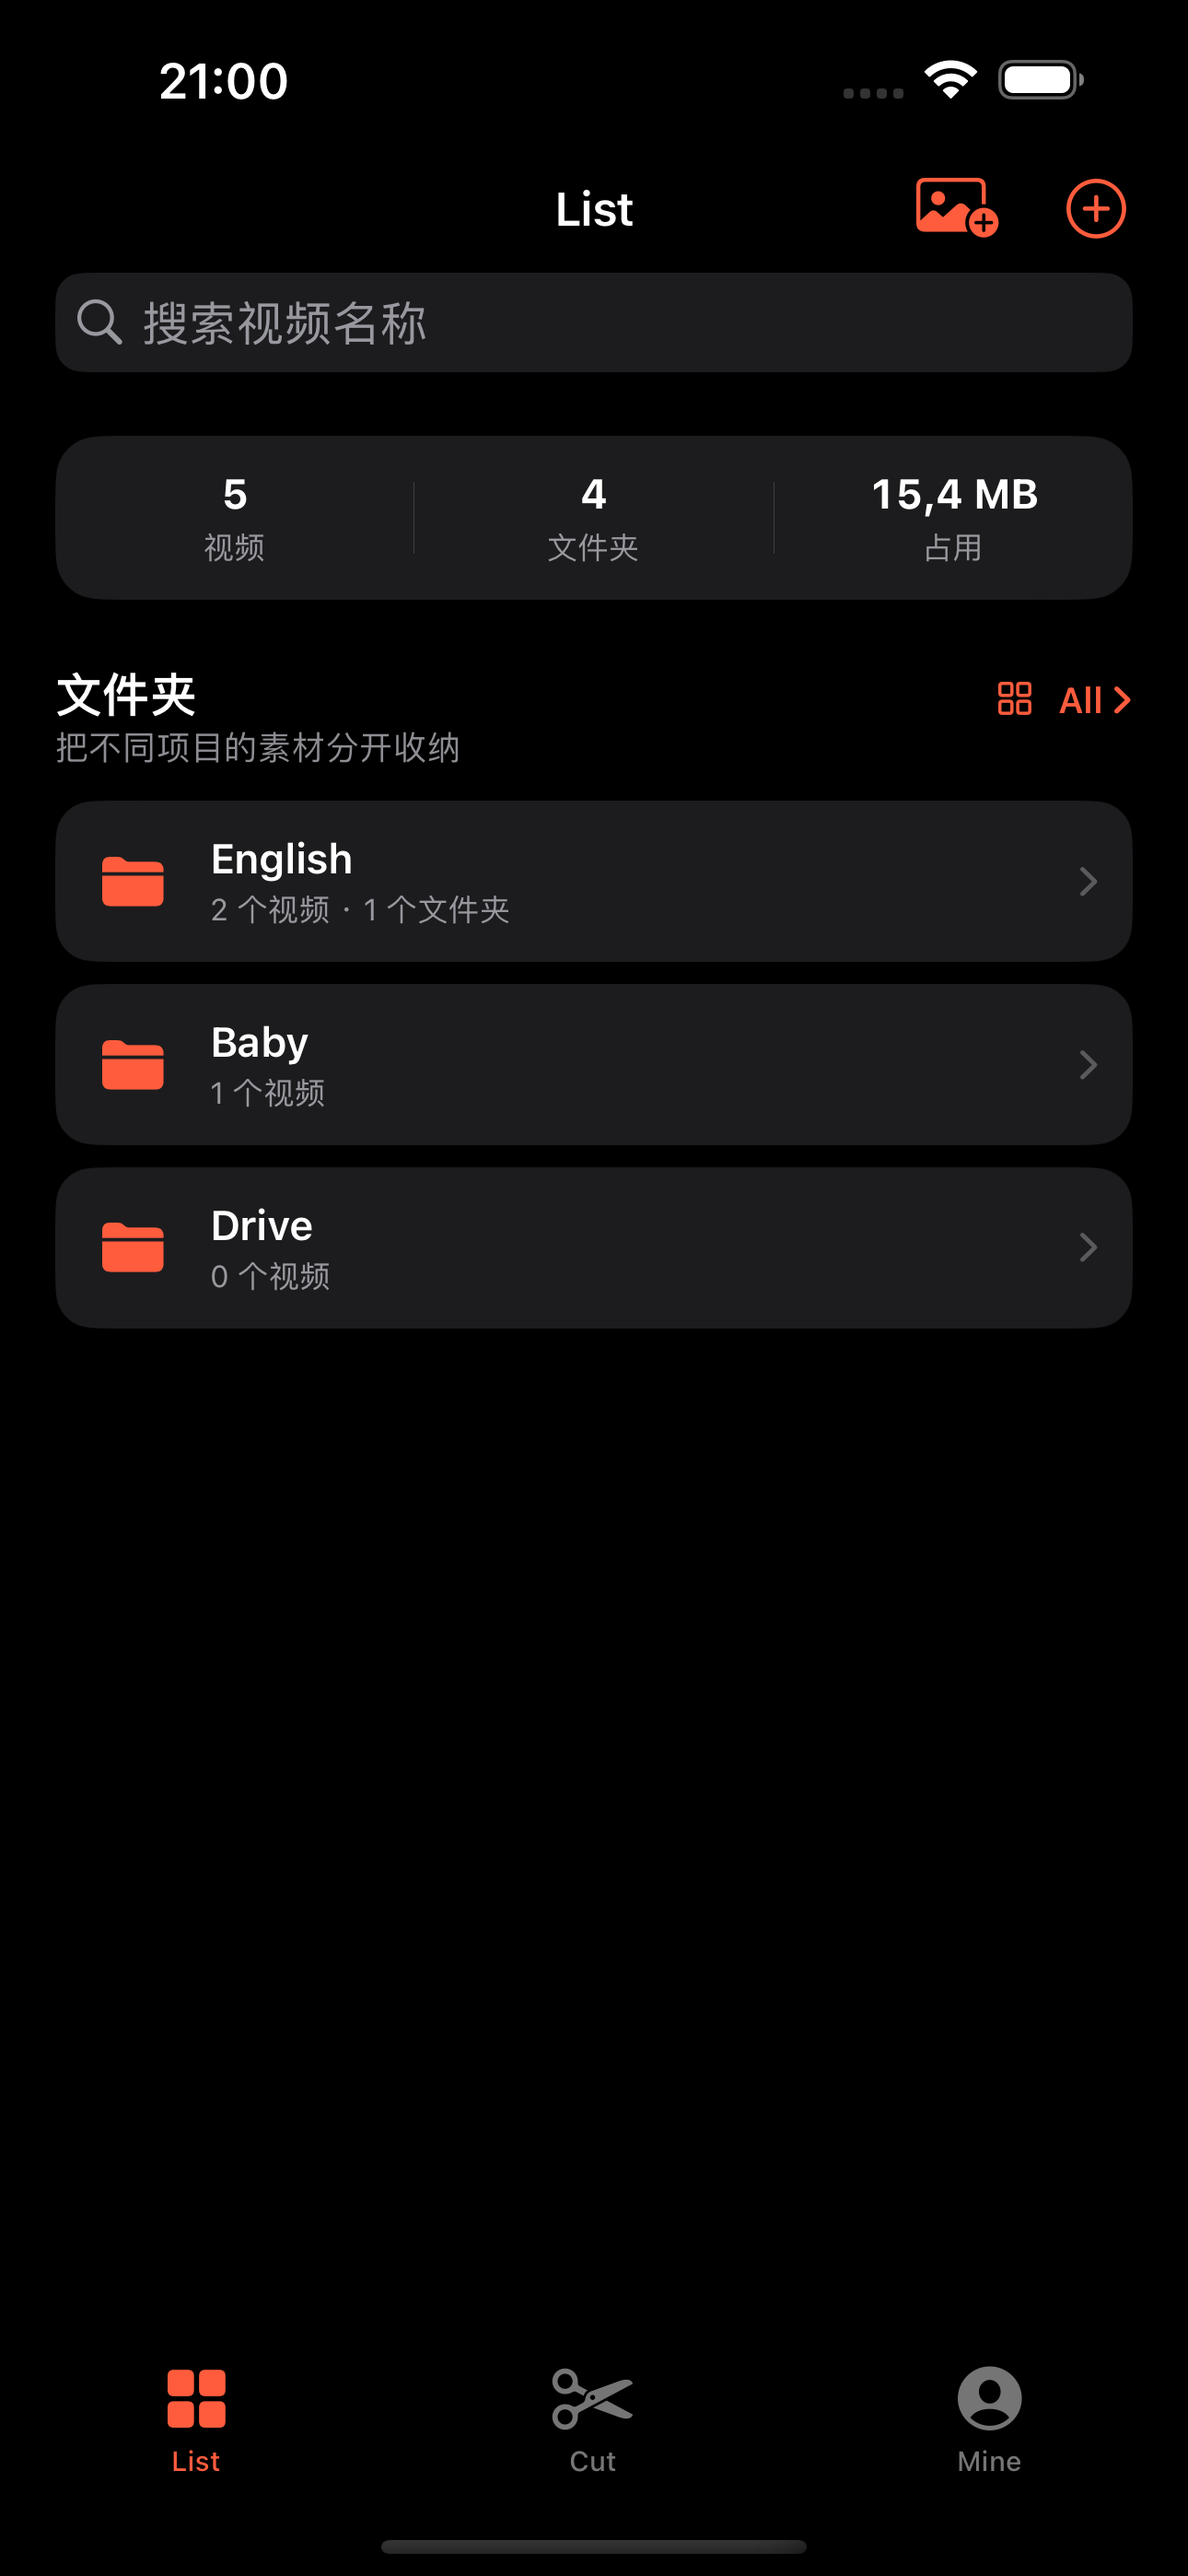
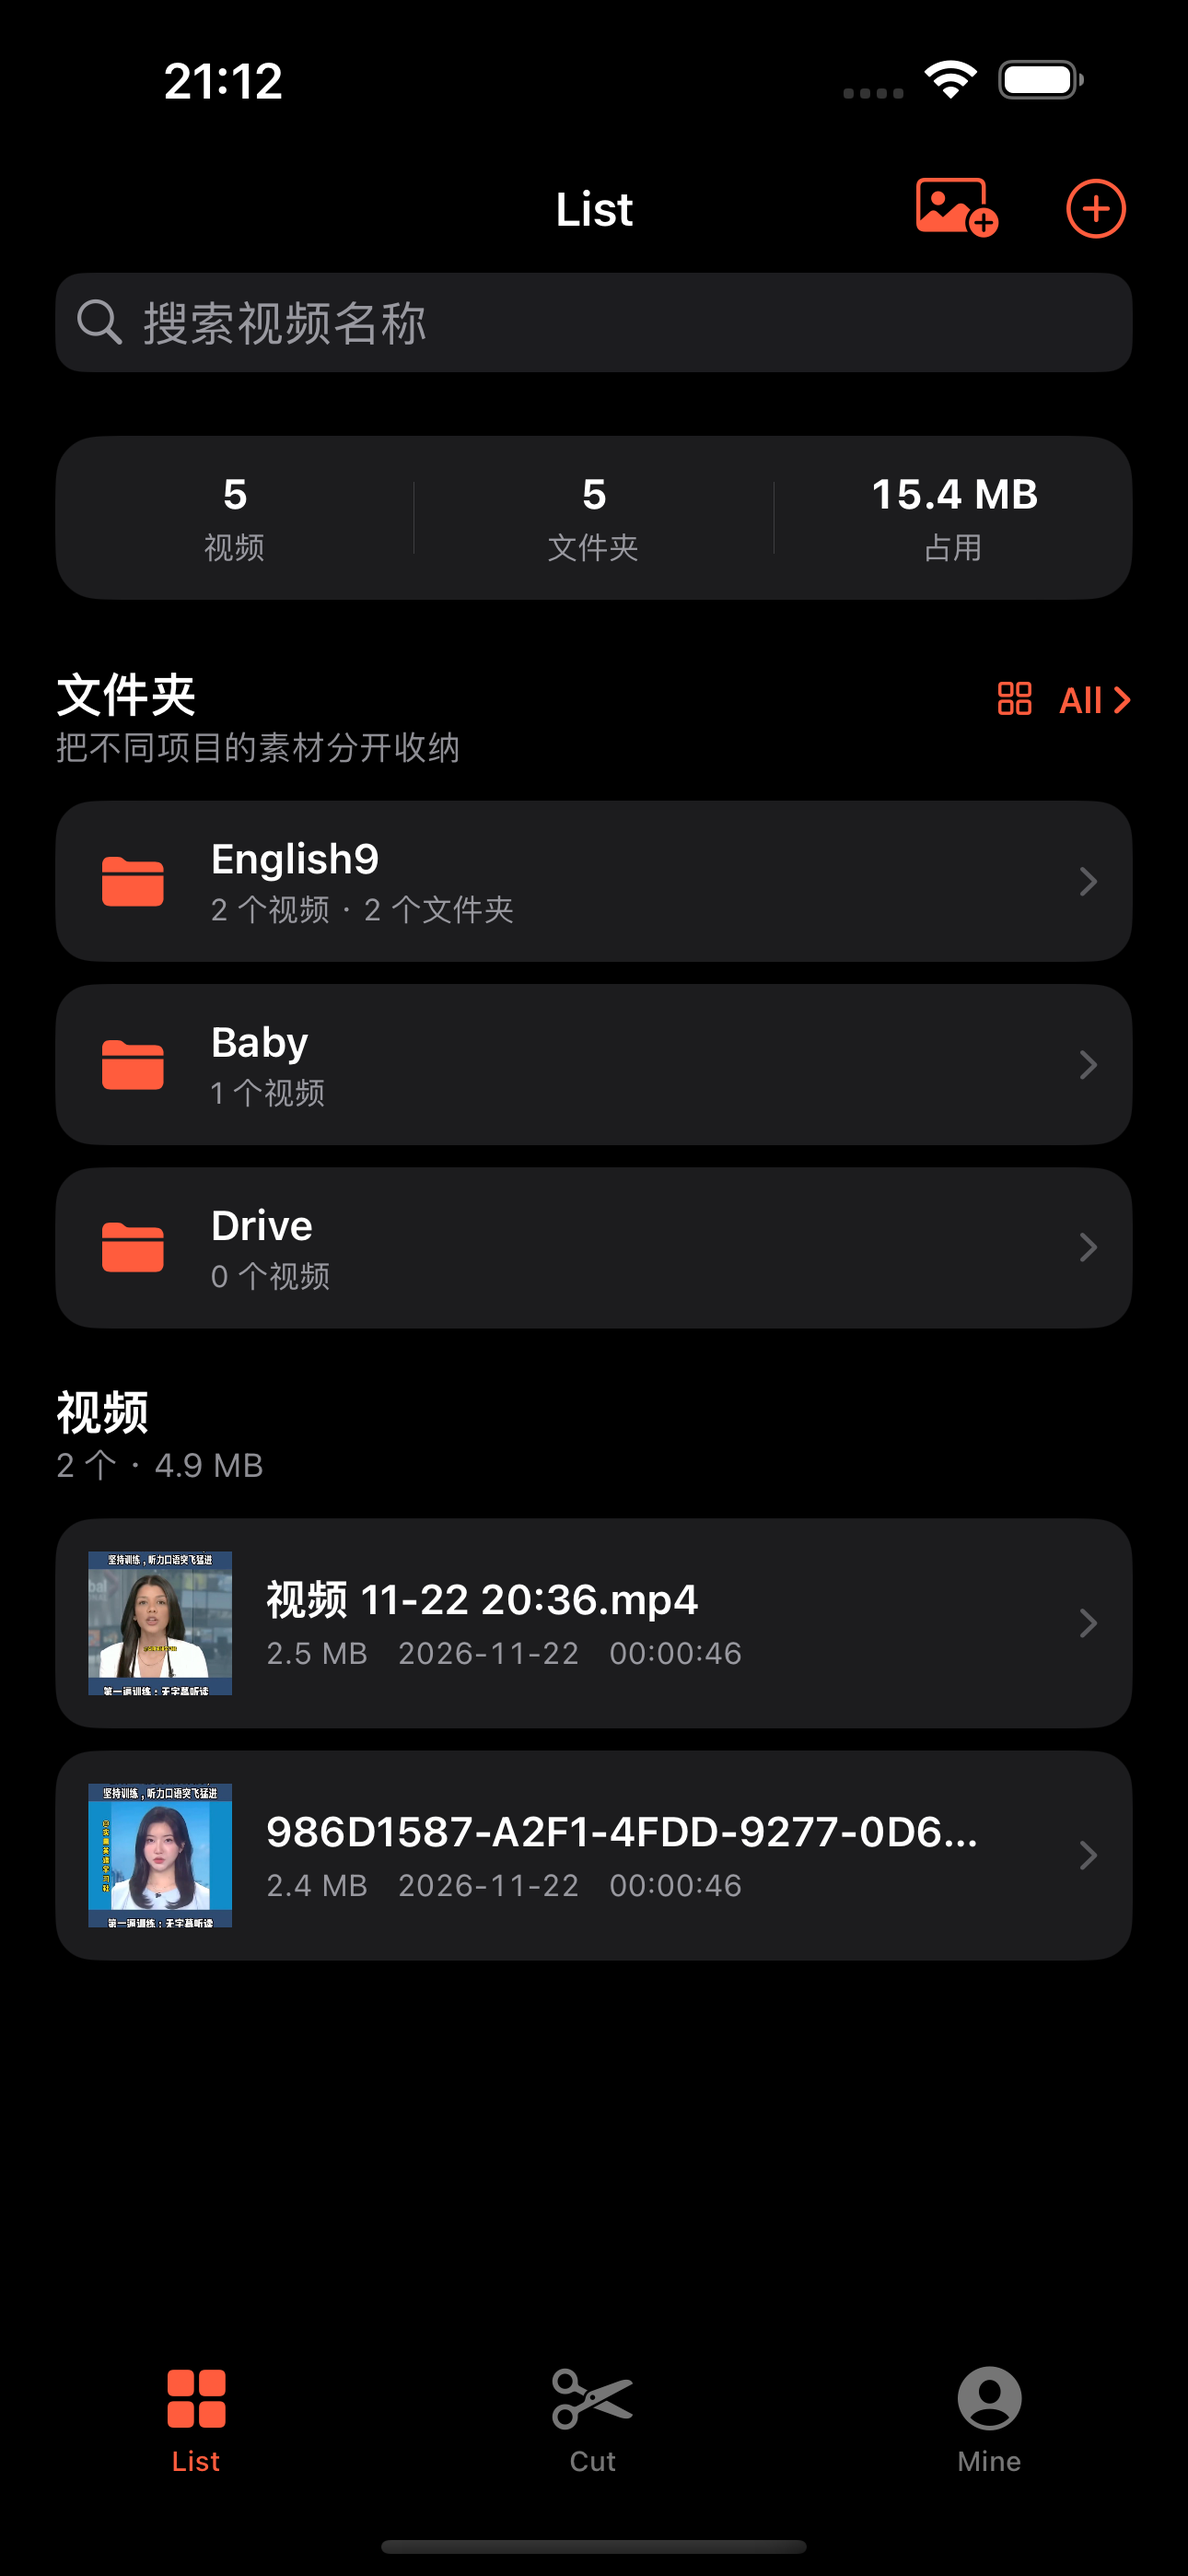
iOS-V1.0.3 - Folder Feature Refinements
1. The root directory can also import and display videos, using the same cell layout as folders.

2. All videos are displayed in a list layout; each cell must contain the video file name (e.g. xxx.mp4), file size (e.g. 30.2 MB), date added, and duration; the leftmost part of the cell must show a video thumbnail.

diff --git a/apps/ios/Sources/DesignSystem/Components.swift b/apps/ios/Sources/DesignSystem/Components.swift
@@ -98,53 +98,50 @@ struct VideoCard: View {
     }
 }
 
-// MARK: - 视频列表行（V2.0.1）
+// MARK: - 视频列表行（V1.0.3）
 
-/// 列表形式展示的视频行：缩略图 + 名称.mp4 + 大小 / 添加日期 / 时长。
+/// 与文件夹行同一套 cell 样式：左侧缩略图 / 图标，标题「名称.mp4」，第二行是
+/// 大小 · 添加日期 · 时长，右侧 chevron。
 struct VideoListRow: View {
     let item: VideoItem
-    var showsFolderName: Bool = false
-    var folderName: String? = nil
-
-    private var metaText: String {
-        "\(item.fileSize.fileSizeText) · \(item.createdAt.dateText) · \(item.duration.timecode)"
-    }
+    /// 完整层级路径，用于「全部视频」这类跨目录列表；nil 时不展示。
+    var folderPath: String? = nil
 
     var body: some View {
         HStack(spacing: 12) {
-            ZStack(alignment: .bottomTrailing) {
-                ThumbnailView(thumbnailName: item.thumbnailName, cornerRadius: 10)
-                    .frame(width: 92, height: 58)
-                    .clipped()
+            ThumbnailView(thumbnailName: item.thumbnailName, cornerRadius: 8)
+                .frame(width: 52, height: 52)
+                .clipped()
 
-                Text(item.duration.timecode)
-                    .font(.caption2.monospacedDigit().weight(.semibold))
-                    .foregroundStyle(.white)
-                    .padding(.horizontal, 5)
-                    .padding(.vertical, 2)
-                    .background(.black.opacity(0.65), in: Capsule())
-                    .padding(4)
-            }
-
-            VStack(alignment: .leading, spacing: 5) {
+            VStack(alignment: .leading, spacing: 4) {
                 Text(item.displayNameWithExtension)
                     .font(.subheadline.weight(.semibold))
+                    .foregroundStyle(.primary)
                     .lineLimit(1)
 
-                Text(metaText)
-                    .font(.caption2.monospacedDigit())
-                    .foregroundStyle(.secondary)
-                    .lineLimit(1)
-
-                if showsFolderName {
-                    Text(folderName ?? "未分类")
-                        .font(.caption2)
-                        .foregroundStyle(.secondary)
-                        .lineLimit(1)
+                HStack(spacing: 10) {
+                    Text(item.fileSize.fileSizeText)
+                    Text(item.createdAt.dateText)
+                    Text(item.duration.listTimecode)
                 }
+                .font(.caption2.monospacedDigit())
+                .foregroundStyle(.secondary)
+                .lineLimit(1)
             }
 
-            Spacer(minLength: 0)
+            Spacer(minLength: 8)
+
+            if let folderPath {
+                Text(folderPath)
+                    .font(.caption2)
+                    .foregroundStyle(.tertiary)
+                    .lineLimit(1)
+                    .layoutPriority(-1)
+            }
+
+            Image(systemName: "chevron.right")
+                .font(.caption.weight(.semibold))
+                .foregroundStyle(Color(uiColor: .tertiaryLabel))
         }
         .padding(12)
         .background(

diff --git a/apps/ios/Sources/Features/Library/LibraryView.swift b/apps/ios/Sources/Features/Library/LibraryView.swift
@@ -34,6 +34,7 @@ struct LibraryView: View {
 
                 if searchText.isEmpty {
                     folderSection
+                    rootVideoSection
                 } else {
                     searchResultsSection
                 }
@@ -294,6 +295,51 @@ struct LibraryView: View {
         }
     }
 
+    // MARK: - 根目录视频（V1.0.3）
+
+    private var rootVideos: [VideoItem] { library.videos(in: nil) }
+
+    /// 根目录下的视频：与文件夹同一套 cell 样式，单行展示。
+    private var rootVideoSection: some View {
+        VStack(alignment: .leading, spacing: 12) {
+            HStack(alignment: .firstTextBaseline) {
+                SectionHeader(
+                    title: "视频",
+                    subtitle: rootVideos.isEmpty
+                        ? "导入的视频会落在根目录，可再移动进文件夹"
+                        : "\(rootVideos.count) 个 · \(rootVideos.reduce(Int64(0)) { $0 + $1.fileSize }.fileSizeText)"
+                )
+                Spacer()
+            }
+
+            if rootVideos.isEmpty {
+                EmptyStateView(
+                    symbol: "film",
+                    title: "根目录还没有视频",
+                    message: "点右上角相册图标导入，视频会直接放在根目录；需要归档时用「移动到文件夹」。"
+                )
+                .background(
+                    RoundedRectangle(cornerRadius: 16, style: .continuous)
+                        .fill(Color(uiColor: .secondarySystemGroupedBackground))
+                )
+            } else {
+                LazyVStack(spacing: 8) {
+                    ForEach(rootVideos) { item in
+                        Button {
+                            route = .player(item)
+                        } label: {
+                            VideoListRow(item: item)
+                        }
+                        .buttonStyle(.plain)
+                        .contextMenu {
+                            videoContextMenu(for: item)
+                        }
+                    }
+                }
+            }
+        }
+    }
+
     // MARK: - 搜索结果
 
     private var searchResults: [VideoItem] {
@@ -325,8 +371,7 @@ struct LibraryView: View {
                         } label: {
                             VideoListRow(
                                 item: item,
-                                showsFolderName: true,
-                                folderName: library.folder(with: item.folderID)?.name
+                                folderPath: item.folderID.map { library.folderPath(for: $0) }
                             )
                         }
                         .buttonStyle(.plain)

diff --git a/apps/ios/Sources/DesignSystem/Theme.swift b/apps/ios/Sources/DesignSystem/Theme.swift
@@ -44,21 +44,41 @@ extension Double {
     }
 }
 
+extension Double {
+    /// 列表展示用的完整时长，固定 hh:mm:ss，例如「00:03:04」。
+    var listTimecode: String {
+        guard isFinite, self >= 0 else { return "00:00:00" }
+        let total = Int(rounded())
+        let h = total / 3600
+        let m = (total % 3600) / 60
+        let s = total % 60
+        return String(format: "%02d:%02d:%02d", h, m, s)
+    }
+}
+
 extension Int64 {
+    /// 列表展示用的大小，固定一位小数，例如「1.8 MB」「94.1 MB」。
     var fileSizeText: String {
         guard self > 0 else { return "0 KB" }
-        let formatter = ByteCountFormatter()
-        formatter.allowedUnits = [.useKB, .useMB, .useGB]
-        formatter.countStyle = .file
-        return formatter.string(fromByteCount: self)
+        let bytes = Double(self)
+        if self >= 1_000_000_000 {
+            return String(format: "%.1f GB", bytes / 1_000_000_000)
+        }
+        if self >= 1_000_000 {
+            return String(format: "%.1f MB", bytes / 1_000_000)
+        }
+        if self >= 1_000 {
+            return String(format: "%.1f KB", bytes / 1_000)
+        }
+        return "\(self) B"
     }
 }
 
 extension Date {
-    /// 列表展示用的添加日期，例如「2026/11/22」。
+    /// 列表展示用的添加日期，例如「2026-11-22」。
     var dateText: String {
         let formatter = DateFormatter()
-        formatter.dateFormat = "yyyy/MM/dd"
+        formatter.dateFormat = "yyyy-MM-dd"
         return formatter.string(from: self)
     }
 }

diff --git a/apps/ios/Sources/Features/Library/FolderDetailView.swift b/apps/ios/Sources/Features/Library/FolderDetailView.swift
@@ -47,15 +47,13 @@ struct FolderDetailView: View {
                             .fill(Color(uiColor: .secondarySystemGroupedBackground))
                     )
                 } else {
-                    LazyVGrid(
-                        columns: [GridItem(.flexible(), spacing: 12), GridItem(.flexible(), spacing: 12)],
-                        spacing: 16
-                    ) {
+                    // V1.0.3：视频统一用列表 cell（缩略图 + 名称.mp4 + 大小 / 日期 / 时长）。
+                    LazyVStack(spacing: 8) {
                         ForEach(videos) { item in
                             Button {
                                 route = .player(item)
                             } label: {
-                                VideoCard(item: item)
+                                VideoListRow(item: item)
                             }
                             .buttonStyle(.plain)
                             .contextMenu {

diff --git a/apps/ios/Sources/Features/Library/AllVideosView.swift b/apps/ios/Sources/Features/Library/AllVideosView.swift
@@ -42,8 +42,7 @@ struct AllVideosView: View {
                         } label: {
                             VideoListRow(
                                 item: item,
-                                showsFolderName: true,
-                                folderName: library.folder(with: item.folderID)?.name
+                                folderPath: item.folderID.map { library.folderPath(for: $0) }
                             )
                         }
                         .buttonStyle(.plain)
